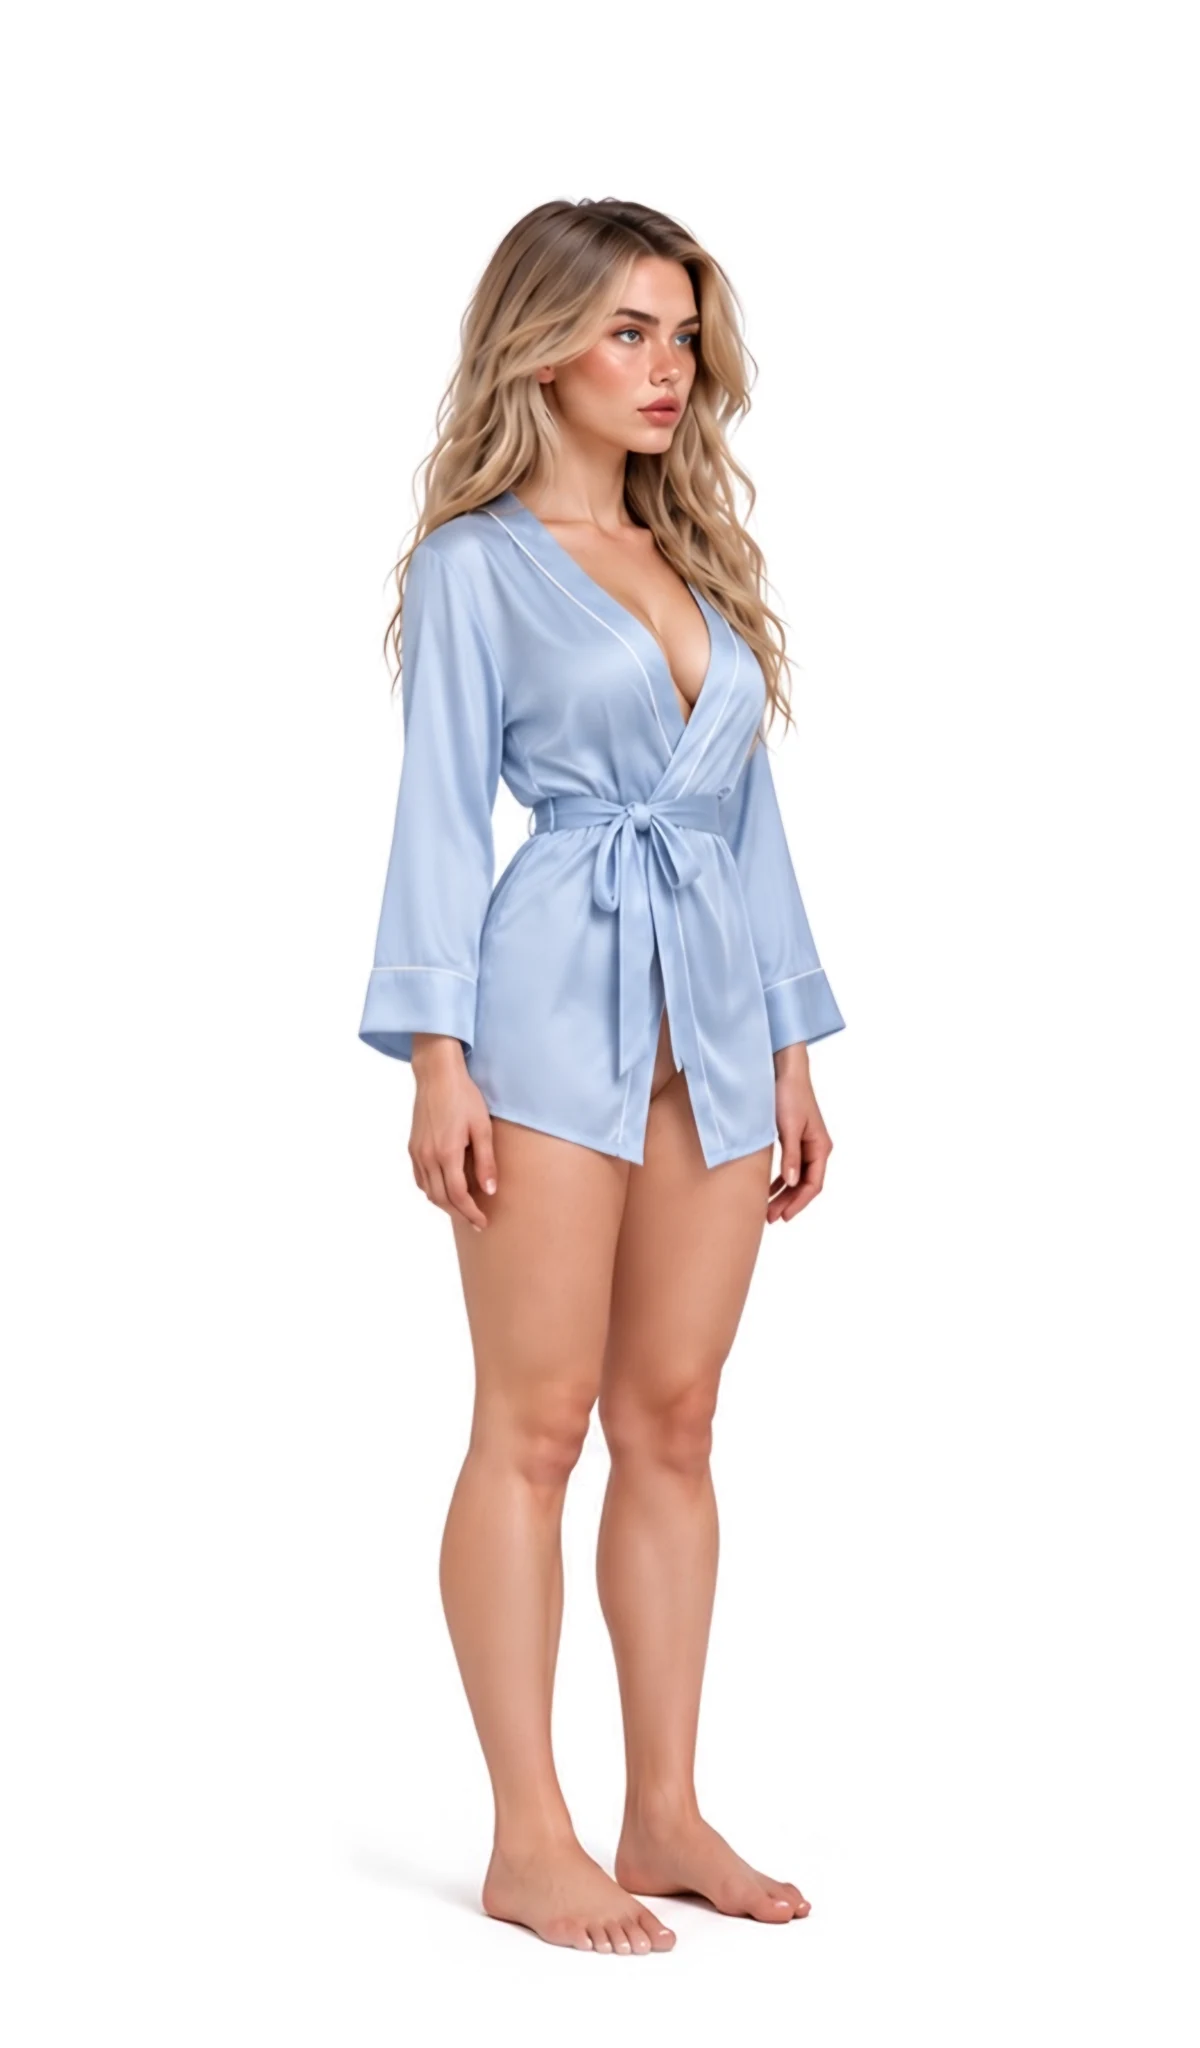
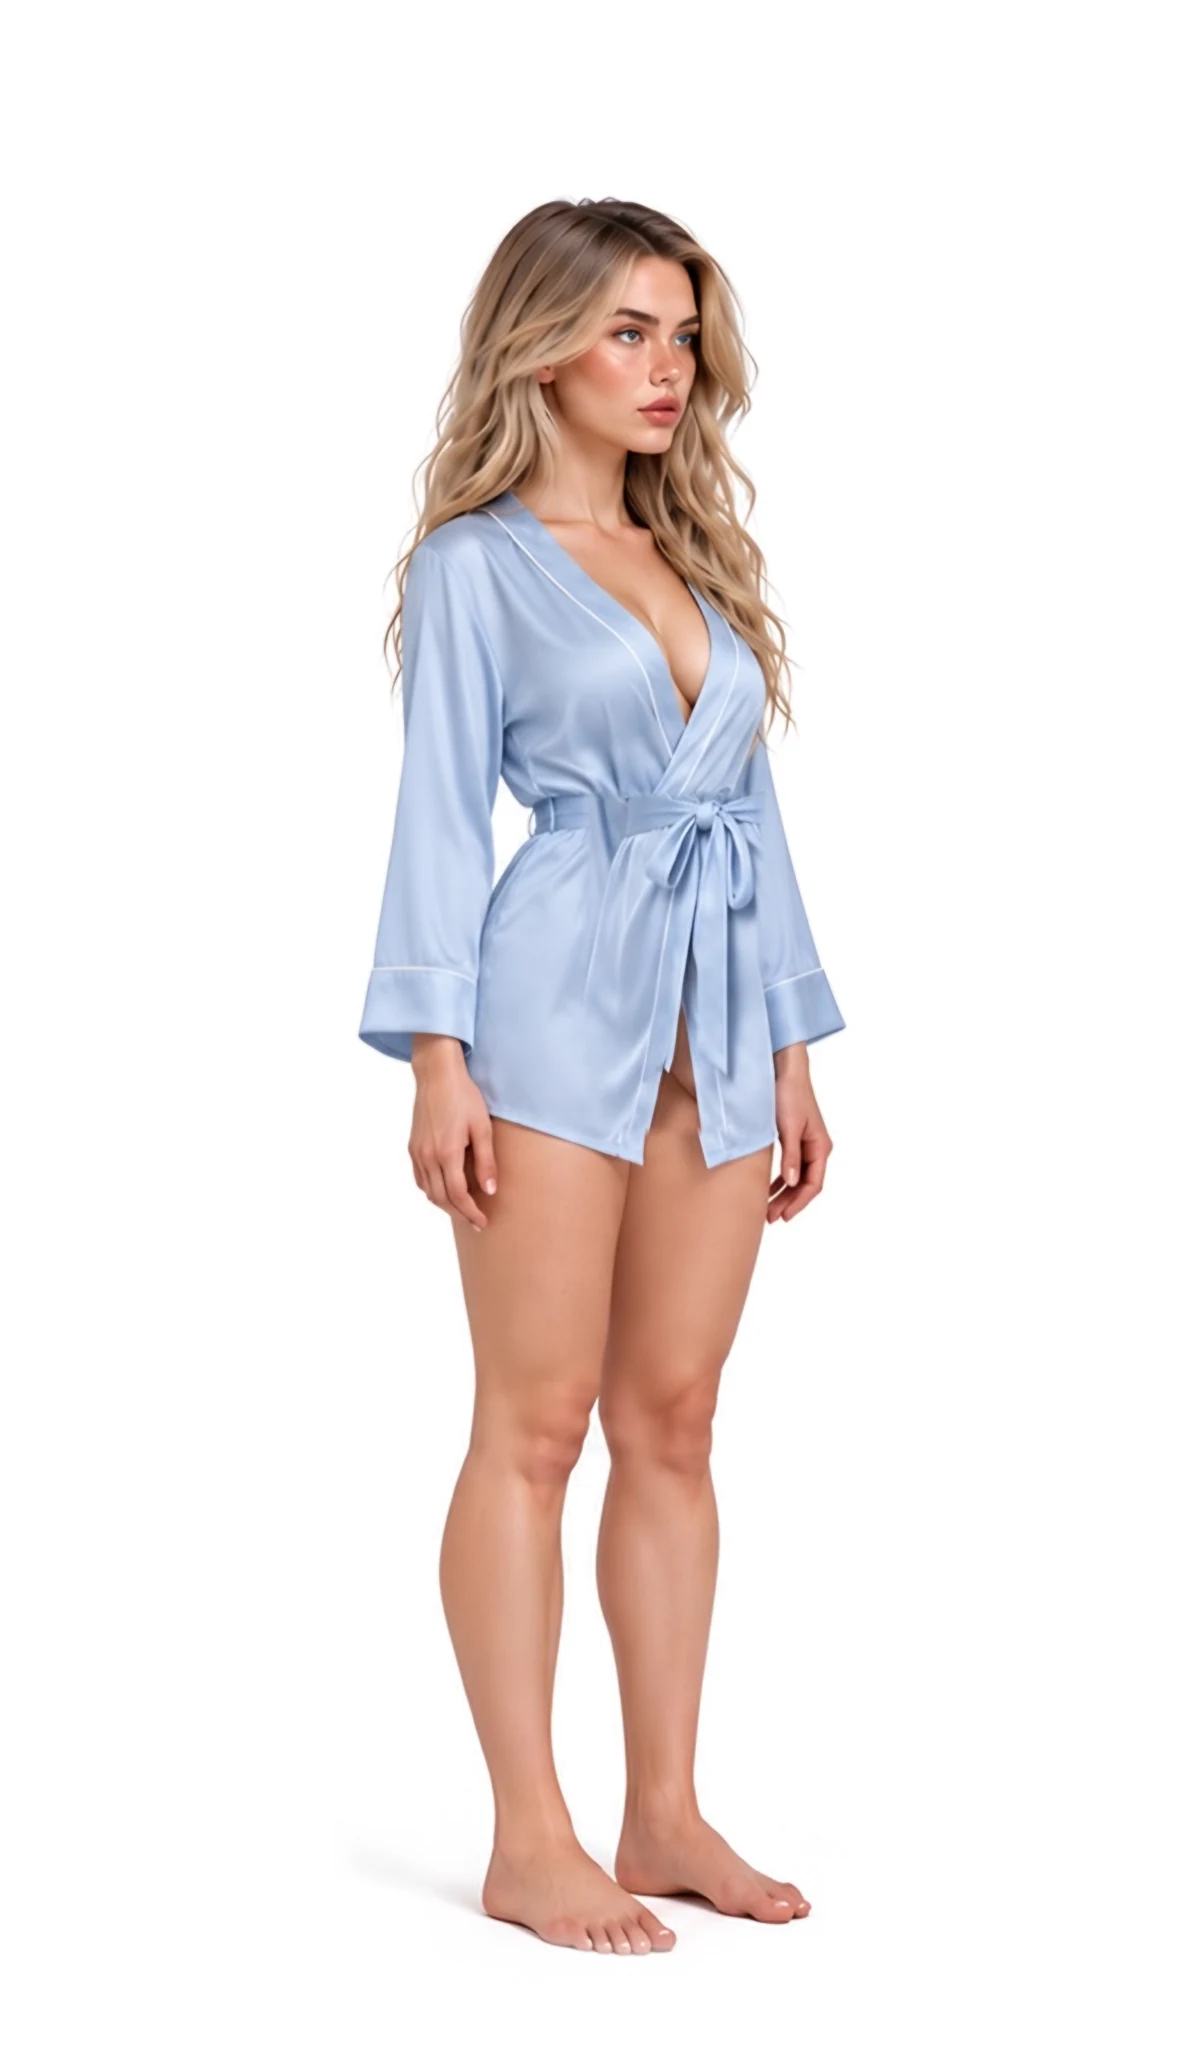
Model 18: fix Outfit 14 robe tie side at 315; add Outfit 16

Changed region(s): [[0.4933, 0.375, 0.6475, 0.5625]]

diff --git a/sw.js b/sw.js
@@ -3,7 +3,7 @@
 // cache only as the offline fallback) so a new deploy is never served stale; images are cache-first in their own cache
 // (frame URLs carry ?v=, so a rebuilt frame is a new URL). skipWaiting + clients.claim, so a new version takes over at once;
 // js/update.js then reloads the page.
-const VERSION = '2026.10.22-031525-01e004c';
+const VERSION = '2026.10.22-033204-c7b1fa4';
 const CACHE = `mg-${VERSION}`, IMG = 'mg-img', IMG_MAX = 600;
 const SHELL = ['./', 'index.html', 'css/style.css', 'js/app.js', 'js/update.js', 'data/manifest.json', 'manifest.webmanifest',
   'icons/icon-192.png', 'icons/icon-512.png', 'icons/apple-touch-icon.png', 'icons/favicon-64.png'];

diff --git a/js/update.js b/js/update.js
@@ -4,7 +4,7 @@
 // - then the page reloads (the hash deep link, e.g. #exact-5/base/315, is kept). Loop guard: at most 2 auto-reloads per new
 //   version and 5 per minute; never for a worker whose version this page already runs.
 (function () {
-  const VERSION = '2026.10.22-031525-01e004c';
+  const VERSION = '2026.10.22-033204-c7b1fa4';
   window.__mgVersion = VERSION;
   if (!('serviceWorker' in navigator) || !location.protocol.startsWith('http')) return;
   const sw = navigator.serviceWorker, LOOP_KEY = 'mg.swReloads';
